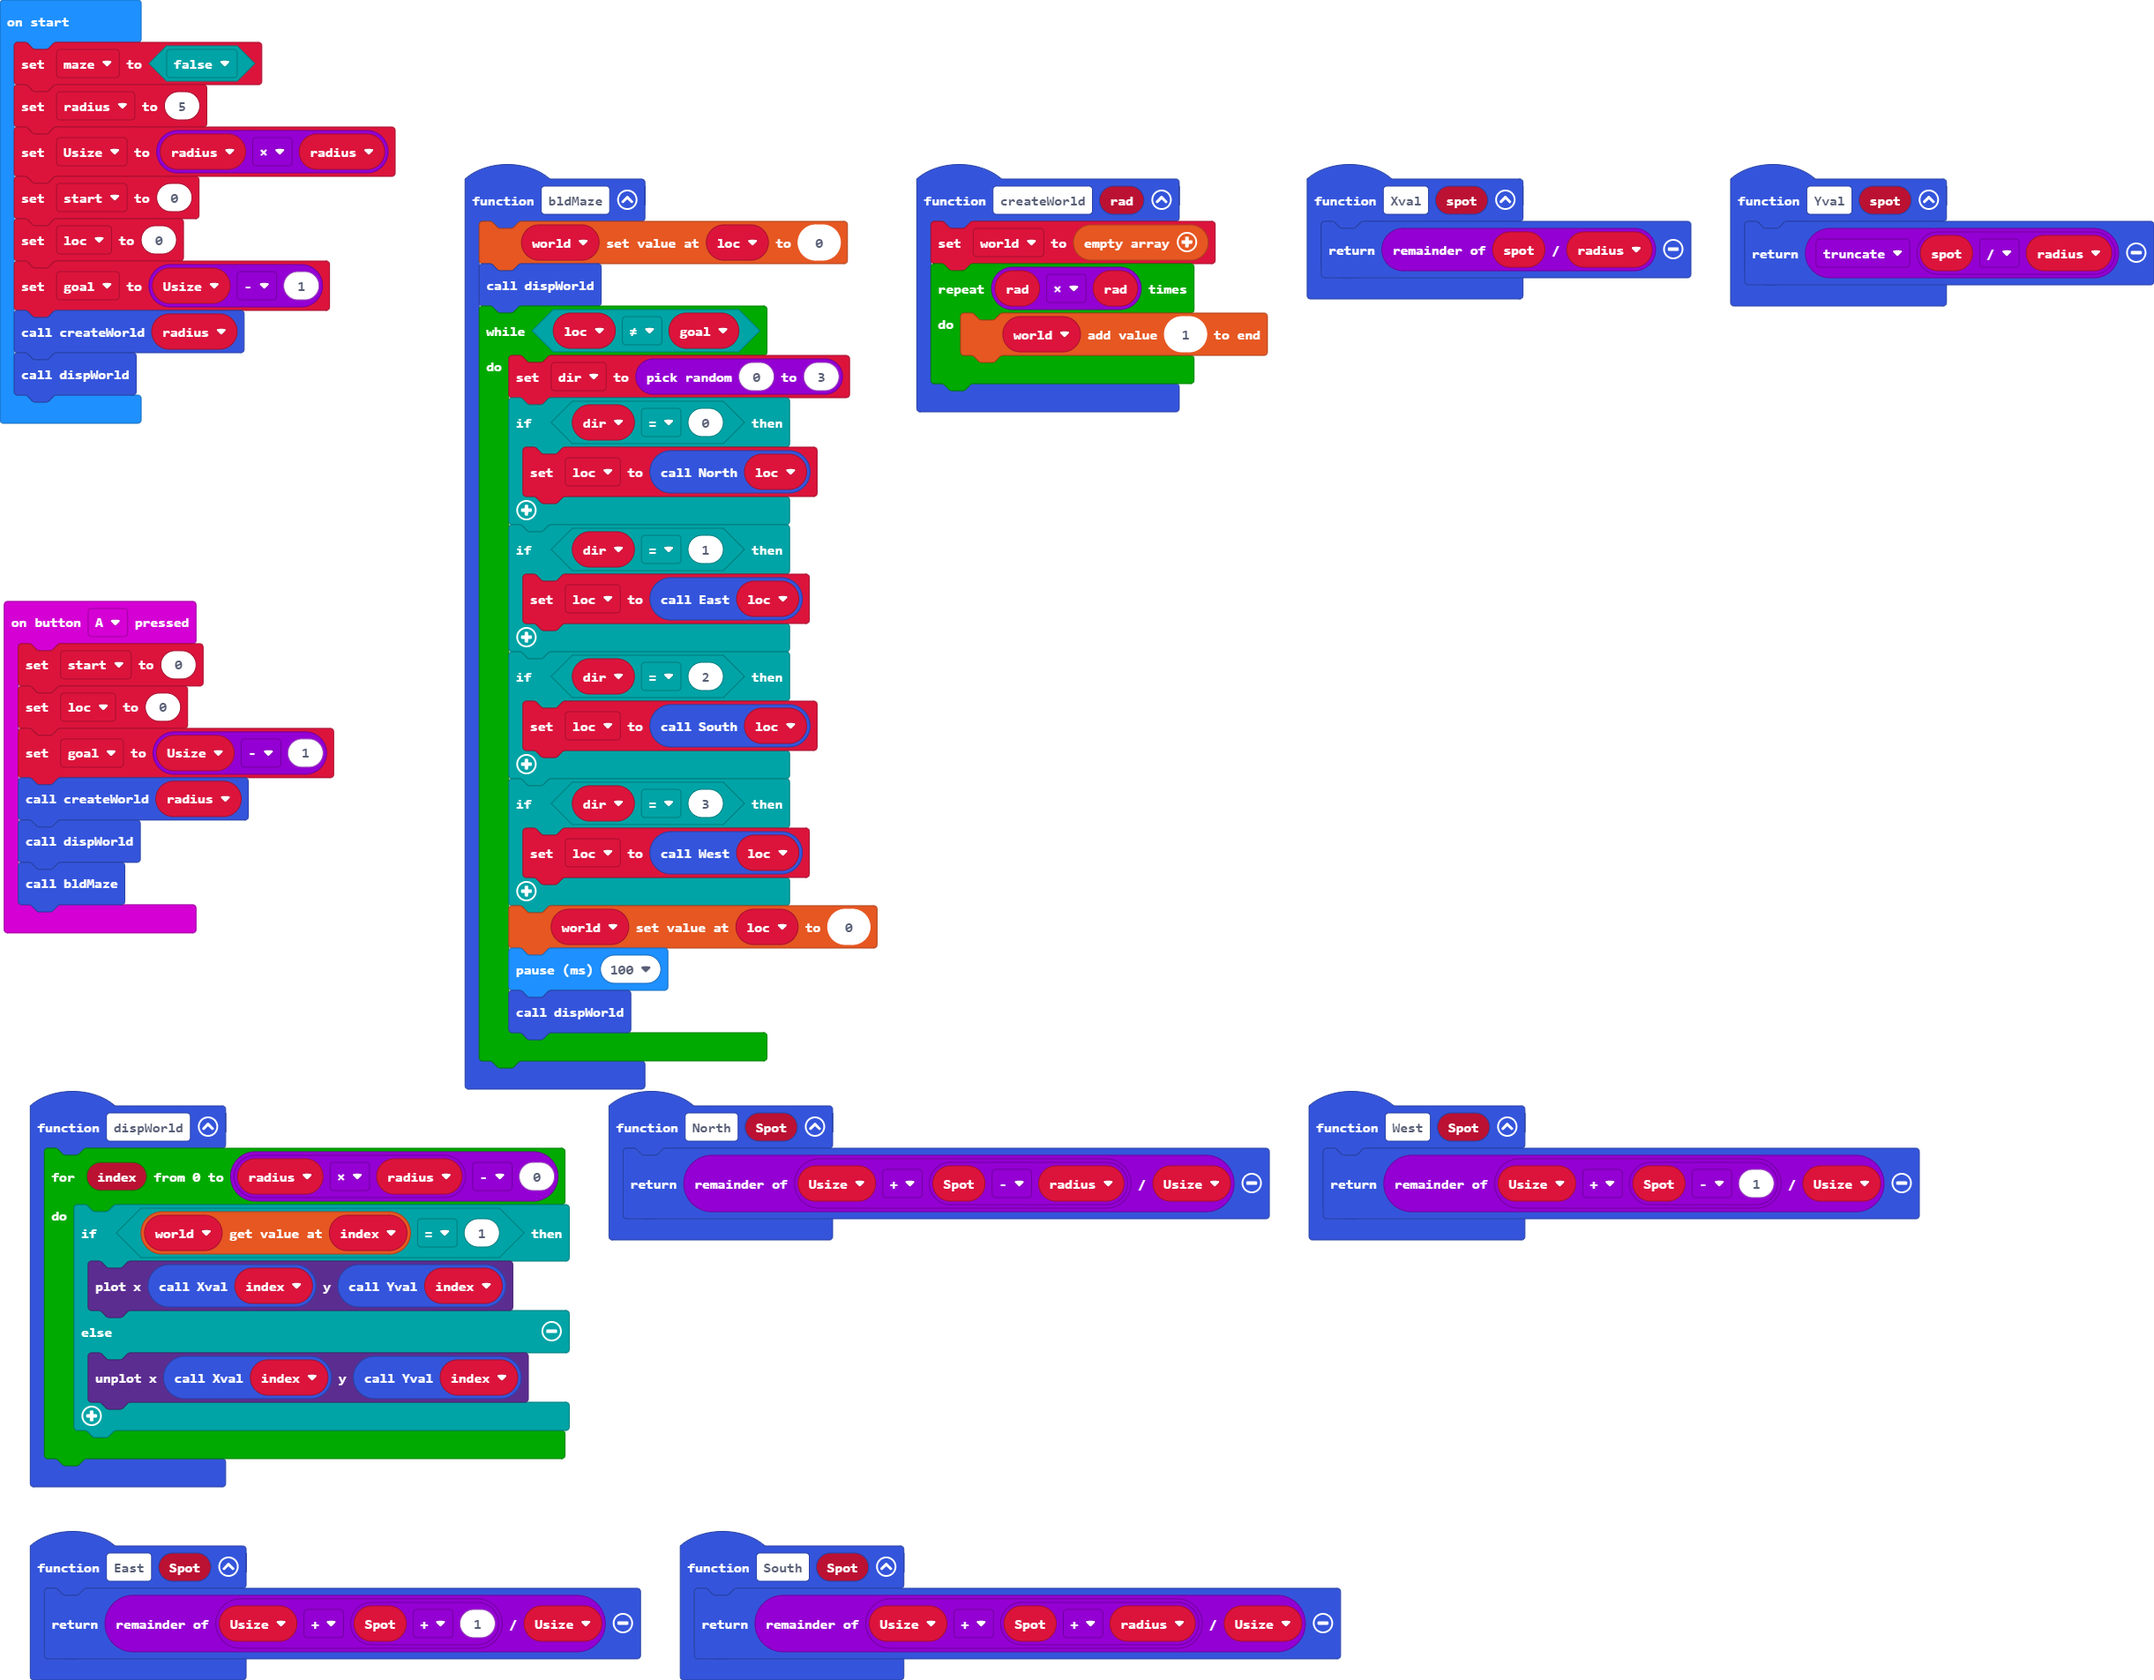
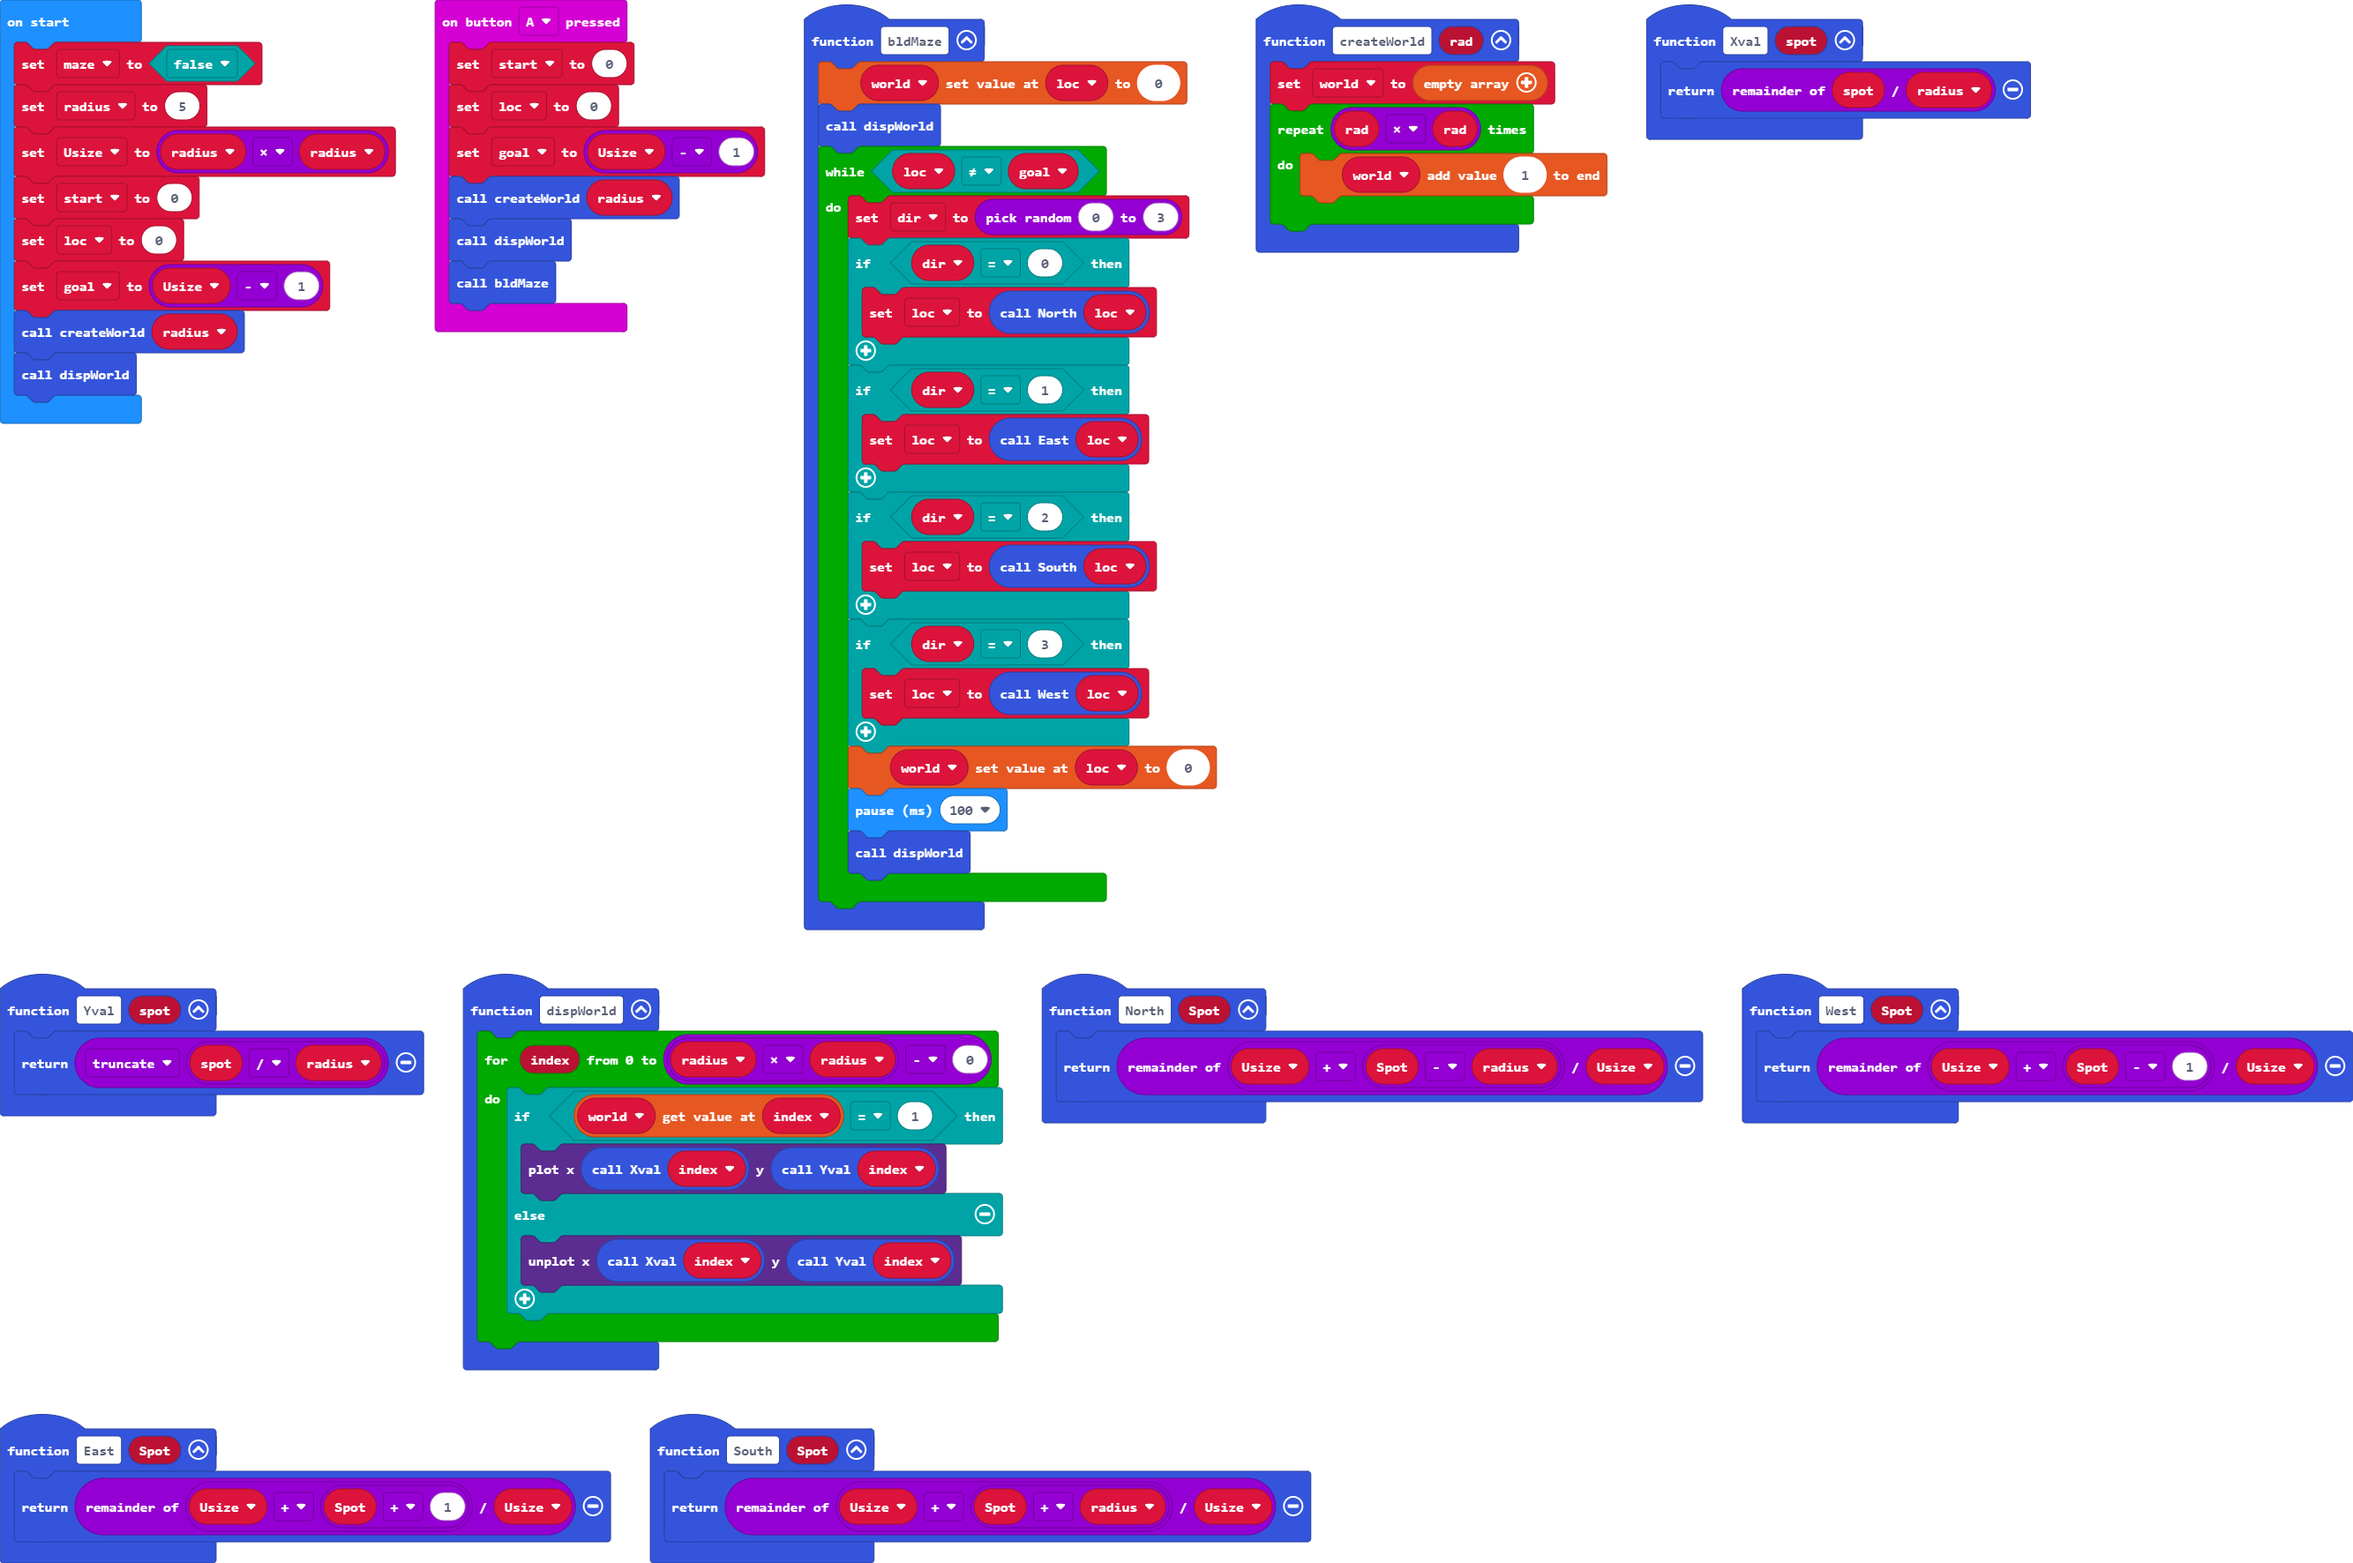
Update main.blocks, main.ts

diff --git a/main.ts b/main.ts
@@ -1,8 +1,3 @@
-function wwall () {
-    for (let index = 0; index <= 4; index++) {
-        led.plot(0, index)
-    }
-}
 function Yval (spot: number) {
     return Math.trunc(spot / radius)
 }
@@ -45,50 +40,8 @@ input.onButtonPressed(Button.A, function () {
     dispWorld()
     bldMaze()
 })
-input.onGesture(Gesture.LogoUp, function () {
-    if (world[North(loc)] == 0) {
-        loc = North(loc)
-        shoWalls(loc)
-    } else {
-        music.playTone(131, music.beat(BeatFraction.Whole))
-    }
-})
 function East (Spot: number) {
     return (Usize + (Spot + 1)) % Usize
-}
-function nwall () {
-    for (let index = 0; index <= 4; index++) {
-        led.plot(index, 0)
-    }
-}
-input.onGesture(Gesture.TiltLeft, function () {
-    if (world[West(loc)] == 0) {
-        loc = West(loc)
-        shoWalls(loc)
-    } else {
-        music.playTone(131, music.beat(BeatFraction.Whole))
-    }
-})
-function shoWalls (spot: number) {
-    basic.showLeds(`
-        . . . . .
-        . . . . .
-        . . . . .
-        . . . . .
-        . . . . .
-        `)
-    if (world[North(spot)] == 1) {
-        nwall()
-    }
-    if (world[East(spot)] == 1) {
-        ewall()
-    }
-    if (world[South(spot)] == 1) {
-        swall()
-    }
-    if (world[West(spot)] == 1) {
-        wwall()
-    }
 }
 function South (Spot: number) {
     return (Usize + (Spot + radius)) % Usize
@@ -102,62 +55,11 @@ function createWorld (rad: number) {
 function West (Spot: number) {
     return (Usize + (Spot - 1)) % Usize
 }
-function test () {
-    basic.showLeds(`
-        . . . . .
-        . . . . .
-        . . . . .
-        . . . . .
-        . . . . .
-        `)
-    nwall()
-    swall()
-    basic.pause(500)
-    basic.showLeds(`
-        . . . . .
-        . . . . .
-        . . . . .
-        . . . . .
-        . . . . .
-        `)
-    wwall()
-    ewall()
-    basic.pause(500)
-}
-input.onButtonPressed(Button.B, function () {
-    shoWalls(loc)
-})
-input.onGesture(Gesture.TiltRight, function () {
-    if (world[East(loc)] == 0) {
-        loc = East(loc)
-        shoWalls(loc)
-    } else {
-        music.playTone(131, music.beat(BeatFraction.Whole))
-    }
-})
-input.onGesture(Gesture.LogoDown, function () {
-    if (world[South(loc)] == 0) {
-        loc = South(loc)
-        shoWalls(loc)
-    } else {
-        music.playTone(131, music.beat(BeatFraction.Whole))
-    }
-})
-function swall () {
-    for (let index = 0; index <= 4; index++) {
-        led.plot(index, 4)
-    }
-}
 function North (Spot: number) {
     return (Usize + (Spot - radius)) % Usize
 }
 function Xval (spot: number) {
     return spot % radius
-}
-function ewall () {
-    for (let index = 0; index <= 4; index++) {
-        led.plot(4, index)
-    }
 }
 let dir = 0
 let world: number[] = []
@@ -166,7 +68,6 @@ let loc = 0
 let start = 0
 let Usize = 0
 let radius = 0
-test()
 let maze = false
 radius = 5
 Usize = radius * radius
